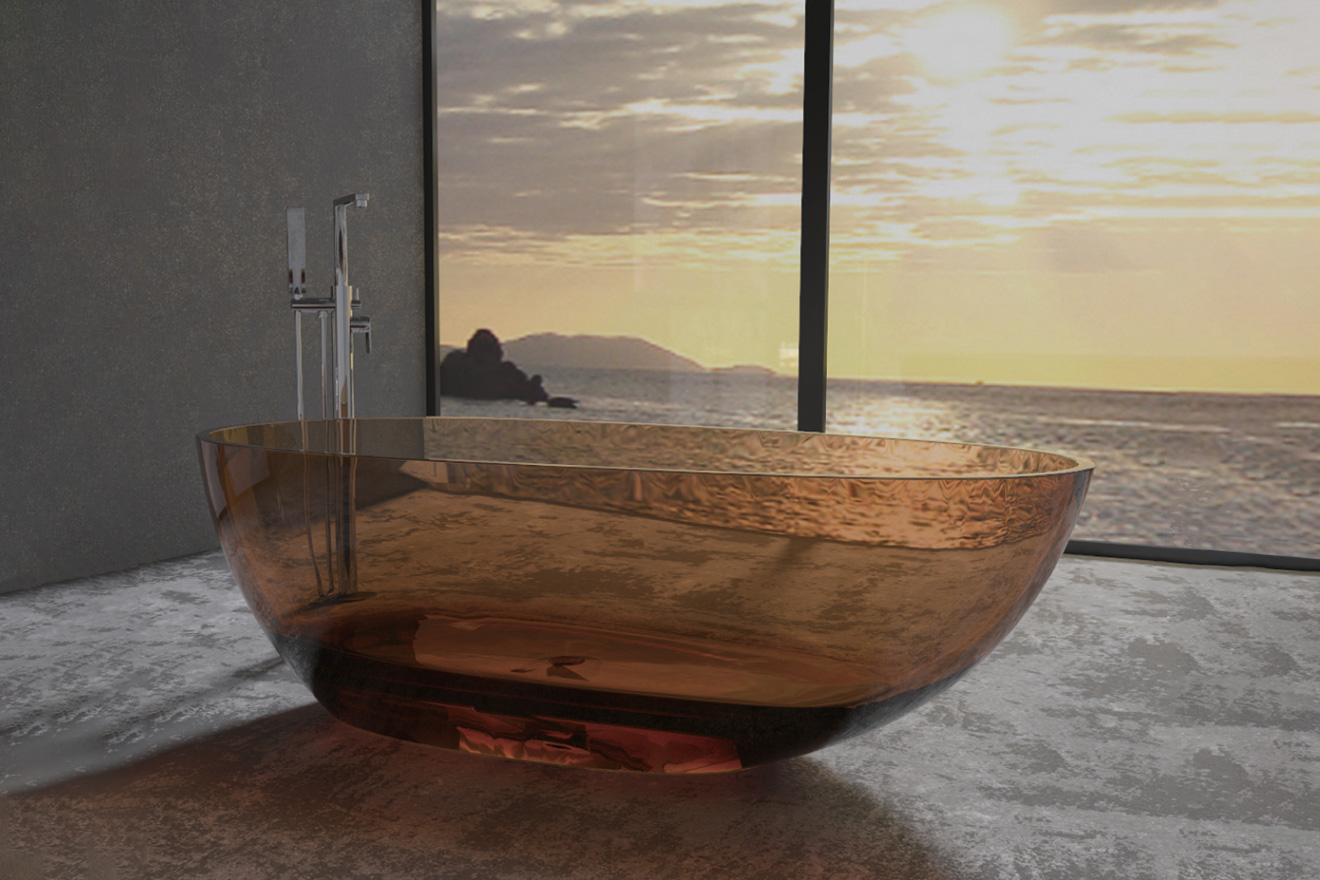
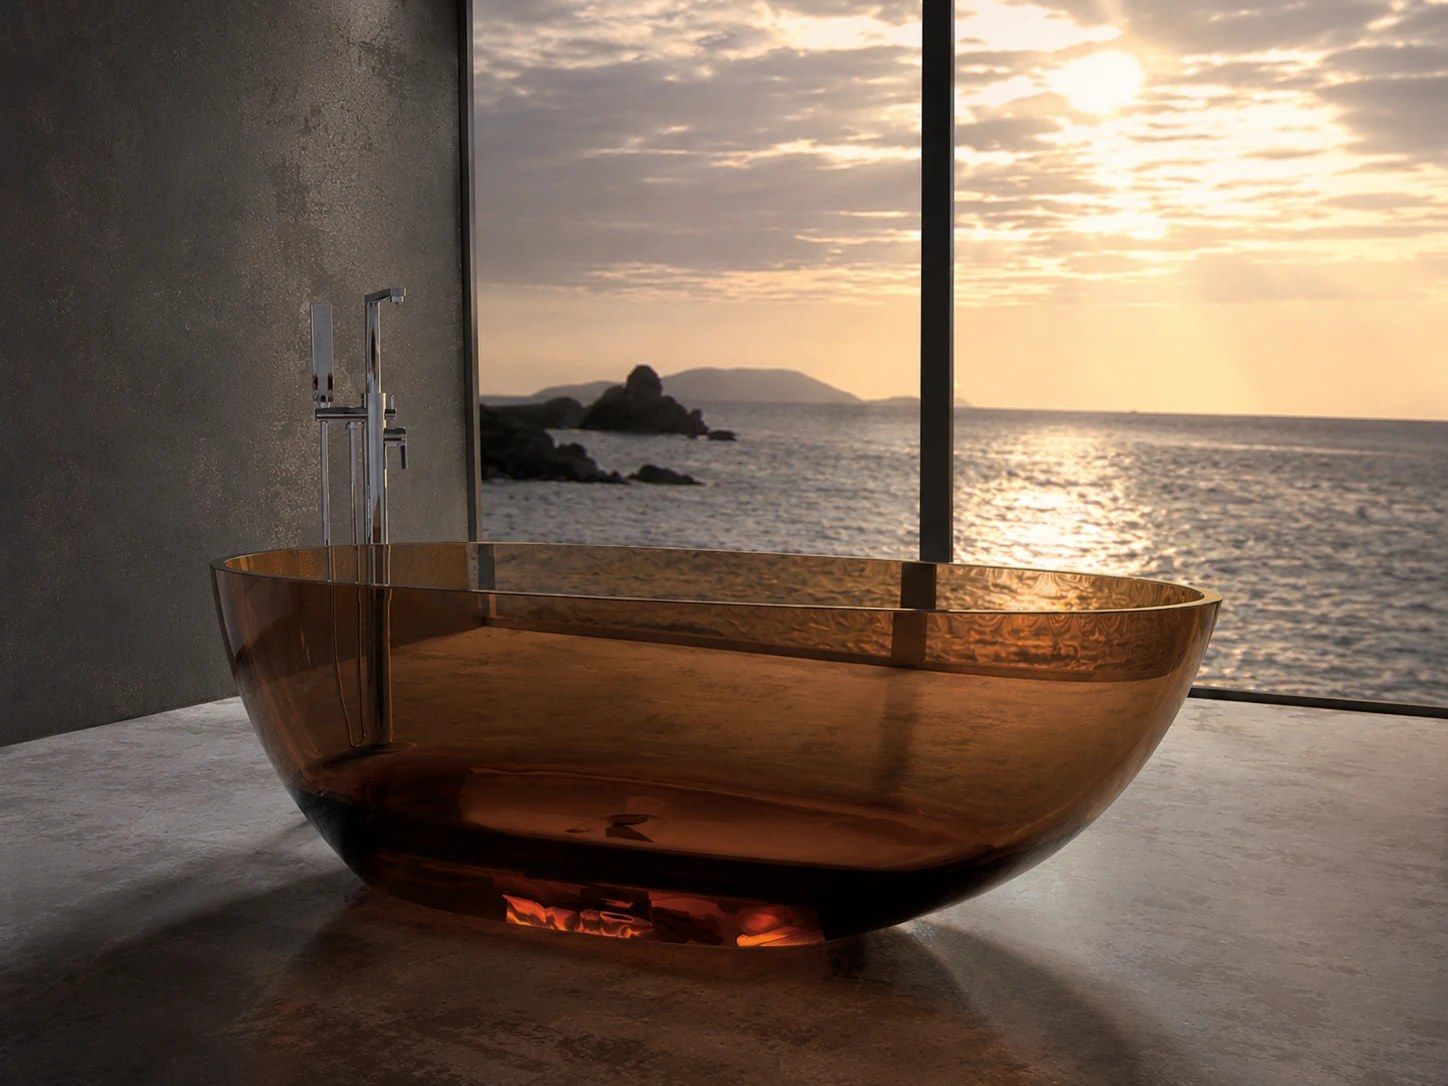
blanc クラルテの商品画像を差し替え
Claude-Session: https://claude.ai/code/session_01DrNNKTKMSrygxVDYMT1CpJ

diff --git a/estimate/app.js b/estimate/app.js
@@ -456,13 +456,13 @@ function getDiscountRate() {
   return 0;
 }
 
-const IMG_V = '?v=3';
+const IMG_V = '?v=4';
 function imgWrap(filename, wrapClass) {
-  return `<div class="${wrapClass}"><img src="images/${filename}.jpg.jpg?v=3" alt="" onerror="this.src='images/${filename}.jpg.jpeg?v=3';this.onerror=function(){this.src='images/${filename}.jpg.png?v=3';this.onerror=function(){this.src='images/${filename}.jpg?v=3';this.onerror=function(){this.parentElement.style.display='none';}}}"></div>`;
+  return `<div class="${wrapClass}"><img src="images/${filename}.jpg.jpg?v=4" alt="" onerror="this.src='images/${filename}.jpg.jpeg?v=4';this.onerror=function(){this.src='images/${filename}.jpg.png?v=4';this.onerror=function(){this.src='images/${filename}.jpg?v=4';this.onerror=function(){this.parentElement.style.display='none';}}}"></div>`;
 }
 function heroImg(filename, cssClass, style) {
   const styleAttr = style ? ` style="${style}"` : '';
-  return `<img class="${cssClass}"${styleAttr} src="images/${filename}.jpg.jpg?v=3" alt="" onerror="this.src='images/${filename}.jpg.jpeg?v=3';this.onerror=function(){this.src='images/${filename}.jpg.png?v=3';this.onerror=function(){this.src='images/${filename}.jpg?v=3';this.onerror=function(){this.style.display='none';}}}">`;
+  return `<img class="${cssClass}"${styleAttr} src="images/${filename}.jpg.jpg?v=4" alt="" onerror="this.src='images/${filename}.jpg.jpeg?v=4';this.onerror=function(){this.src='images/${filename}.jpg.png?v=4';this.onerror=function(){this.src='images/${filename}.jpg?v=4';this.onerror=function(){this.style.display='none';}}}">`;
 }
 
 function isDiscountValid() {
@@ -934,7 +934,7 @@ function renderJacSeries() {
       ${BLANC_SERIES.map((s, i) => {
         const sel = state.jac.seriesIdx === i ? 'selected' : '';
         return `<div class="card-series-overlay ${sel}" data-idx="${i}">
-          <img class="card-series-overlay-img" src="images/blanc_${s.id}.jpg.jpg?v=3" alt="" onerror="this.src='images/blanc_${s.id}.jpg.jpeg?v=3';this.onerror=function(){this.src='images/blanc_${s.id}.jpg.png?v=3';this.onerror=function(){this.src='images/blanc_${s.id}.jpg?v=3';this.onerror=function(){this.style.display='none';}};}">
+          <img class="card-series-overlay-img" src="images/blanc_${s.id}.jpg.jpg?v=4" alt="" onerror="this.src='images/blanc_${s.id}.jpg.jpeg?v=4';this.onerror=function(){this.src='images/blanc_${s.id}.jpg.png?v=4';this.onerror=function(){this.src='images/blanc_${s.id}.jpg?v=4';this.onerror=function(){this.style.display='none';}};}">
           <div class="card-series-overlay-body">
             <div class="card-series-overlay-name">${s.name}</div>
             <div class="card-series-overlay-sub">${s.nameJa}</div>
@@ -1834,7 +1834,7 @@ function render() {
     <div class="header">
       <a href="../" style="text-decoration:none;color:#888;font-size:11px;letter-spacing:0.06em;display:flex;align-items:center;gap:4px;padding:4px 8px;border:1px solid #E2E2E2;border-radius:3px;background:#fff;">← ホーム</a>
       <div class="header-logo">簡易見積もりシステム</div>
-      <a href="../" style="display:block;line-height:0;"><img class="header-logo-img" src="images/sense_logo.jpg.png.png?v=3" alt="SENSE Product Company — ホームへ" onerror="this.src='images/sense_logo.jpg.png?v=3';this.onerror=function(){this.style.display='none';}"></a>
+      <a href="../" style="display:block;line-height:0;"><img class="header-logo-img" src="images/sense_logo.jpg.png.png?v=4" alt="SENSE Product Company — ホームへ" onerror="this.src='images/sense_logo.jpg.png?v=4';this.onerror=function(){this.style.display='none';}"></a>
     </div>
     ${renderFromHearingBanner()}
     ${progressBar}
